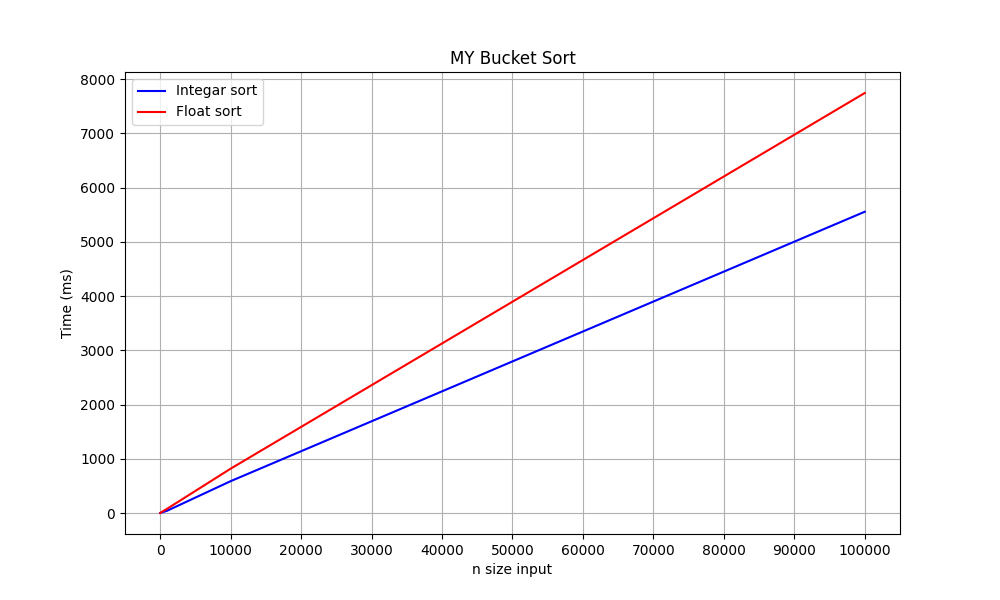
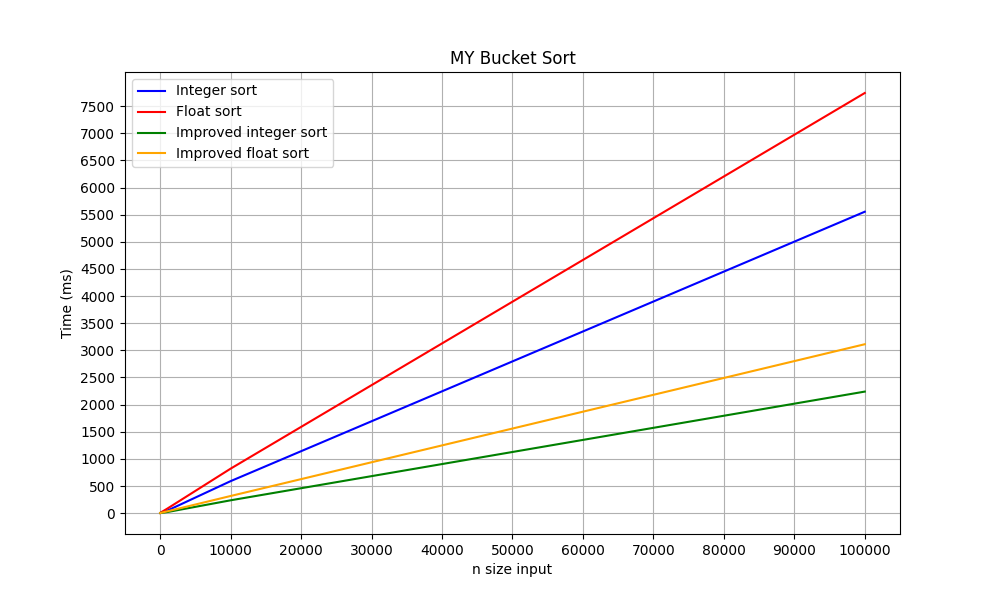
Plotting new improved bucketsort

diff --git a/analysis/plotting_bigO.py b/analysis/plotting_bigO.py
@@ -1,22 +1,12 @@
 import matplotlib.pyplot as plt
 import json
 
-# Purely to plot the data for the bucket because matplotlib is fast and easy
-def parse_time(time_str):
-    # Split the value and unit, e.g., "2.4568 ms"
-    value, unit = time_str.split()
-    value = float(value)
-    if unit == "us":
-        return value / 1000
-    elif unit == "ms":
-        return value  
-    elif unit == "s":
-        return value * 1000  #convert seconds to milliseconds
-
 if __name__ == "__main__":
-    type_results = ["results_int", "results_float"]
-    colors = ["blue", "red"]
-    legends = ["Integer sort", "Float sort"]
+    # Initialize the data
+    type_results = ["results_int", "results_float", "results_improved_ints", "results_improved_floats"]
+    colors = ["blue", "red", "green", "orange"]
+    legends = ["Integer sort", "Float sort", "Improved integer sort", "Improved float sort"]
+    samples = [10, 100, 1_000, 10_000, 100_000]
     figure = plt.figure(figsize=(10, 6))
     
     # Load the data
@@ -24,21 +14,12 @@ if __name__ == "__main__":
         data = json.load(f)
     
         for i, test in enumerate(type_results):
-            results = [] 
-            samples = []
-
-            for run in data[test]:
-                results.append(run["est_run_time"])
-                samples.append(run["n"])
-
-            results_parsed = [parse_time(x) for x in results]
-            plt.plot(samples, results_parsed, color=colors[i], label=legends[i])
-
-
-    # Plot the data
+            plt.plot(samples, data[test], color=colors[i], label=legends[i])
+    
     plt.xlabel("n size input")
     plt.ylabel("Time (ms)")
     plt.xticks([x for x in range(0, samples[-1] + 1, 10_000)])
+    plt.yticks([x for x in range(0, 8000, 500)])
     plt.grid()
     plt.legend()
     plt.title("MY Bucket Sort")
